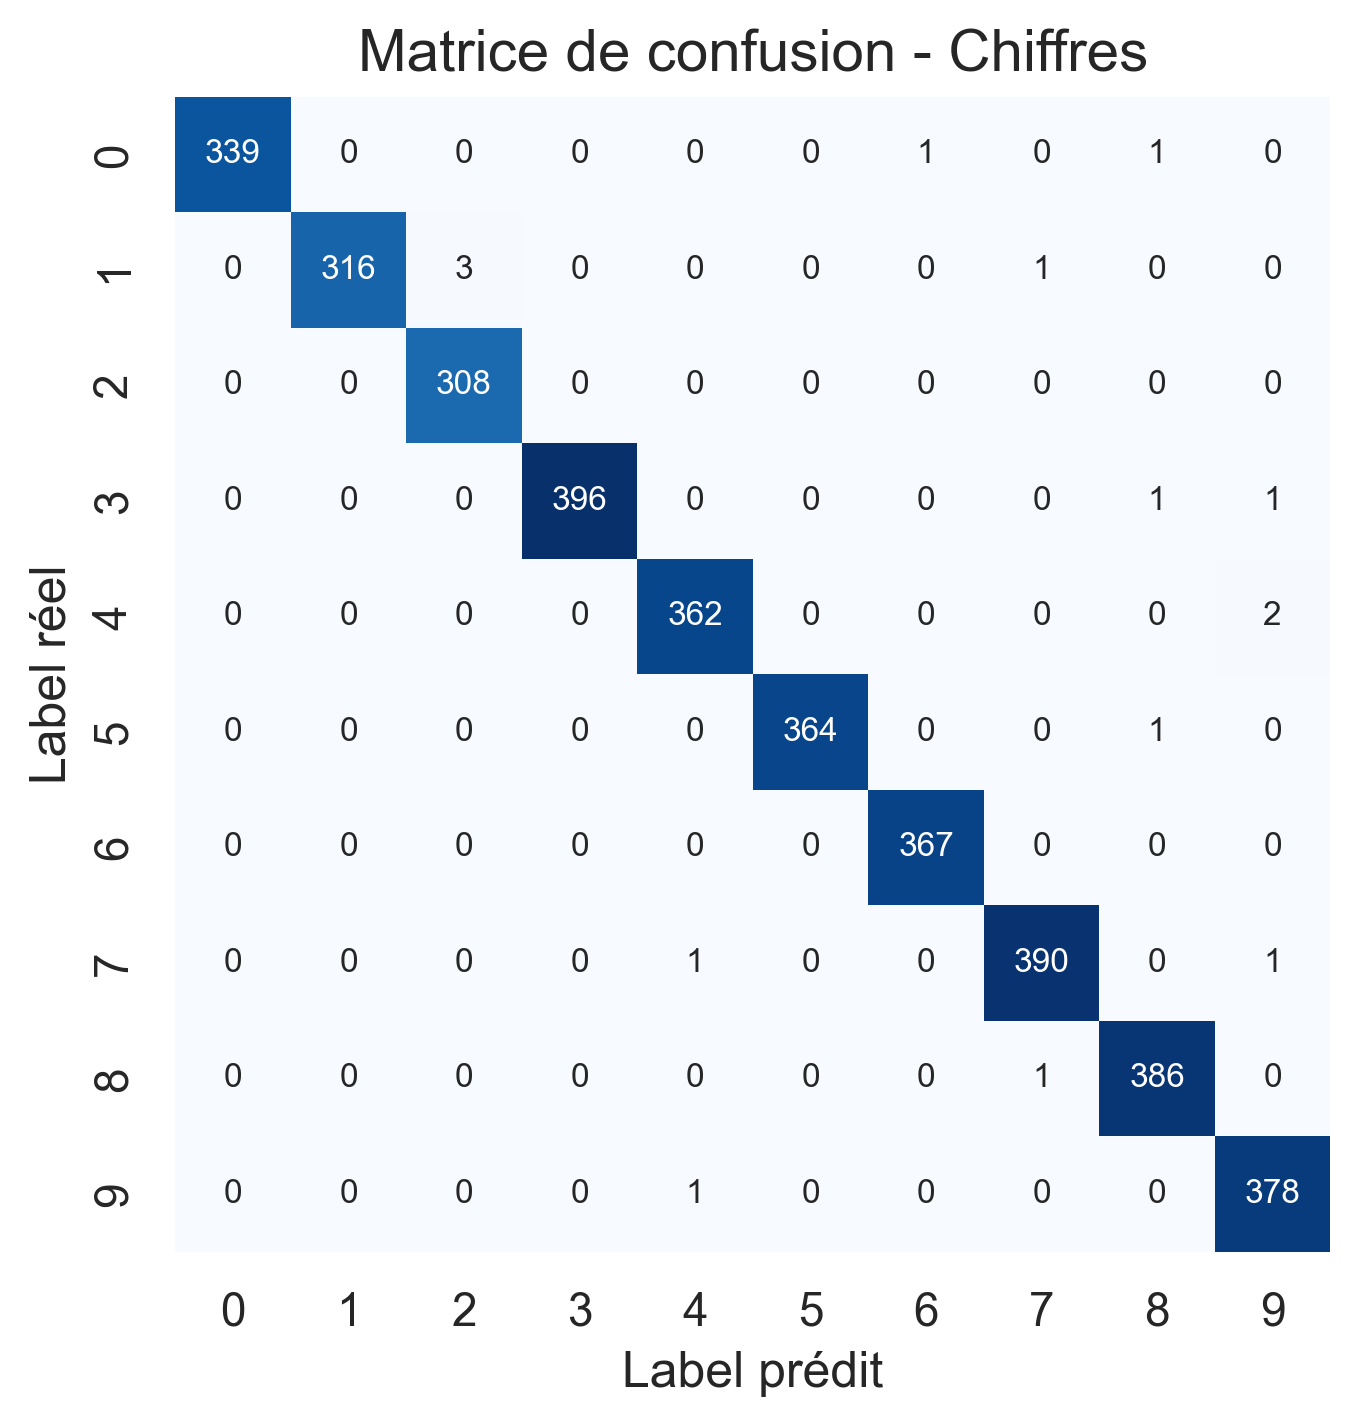
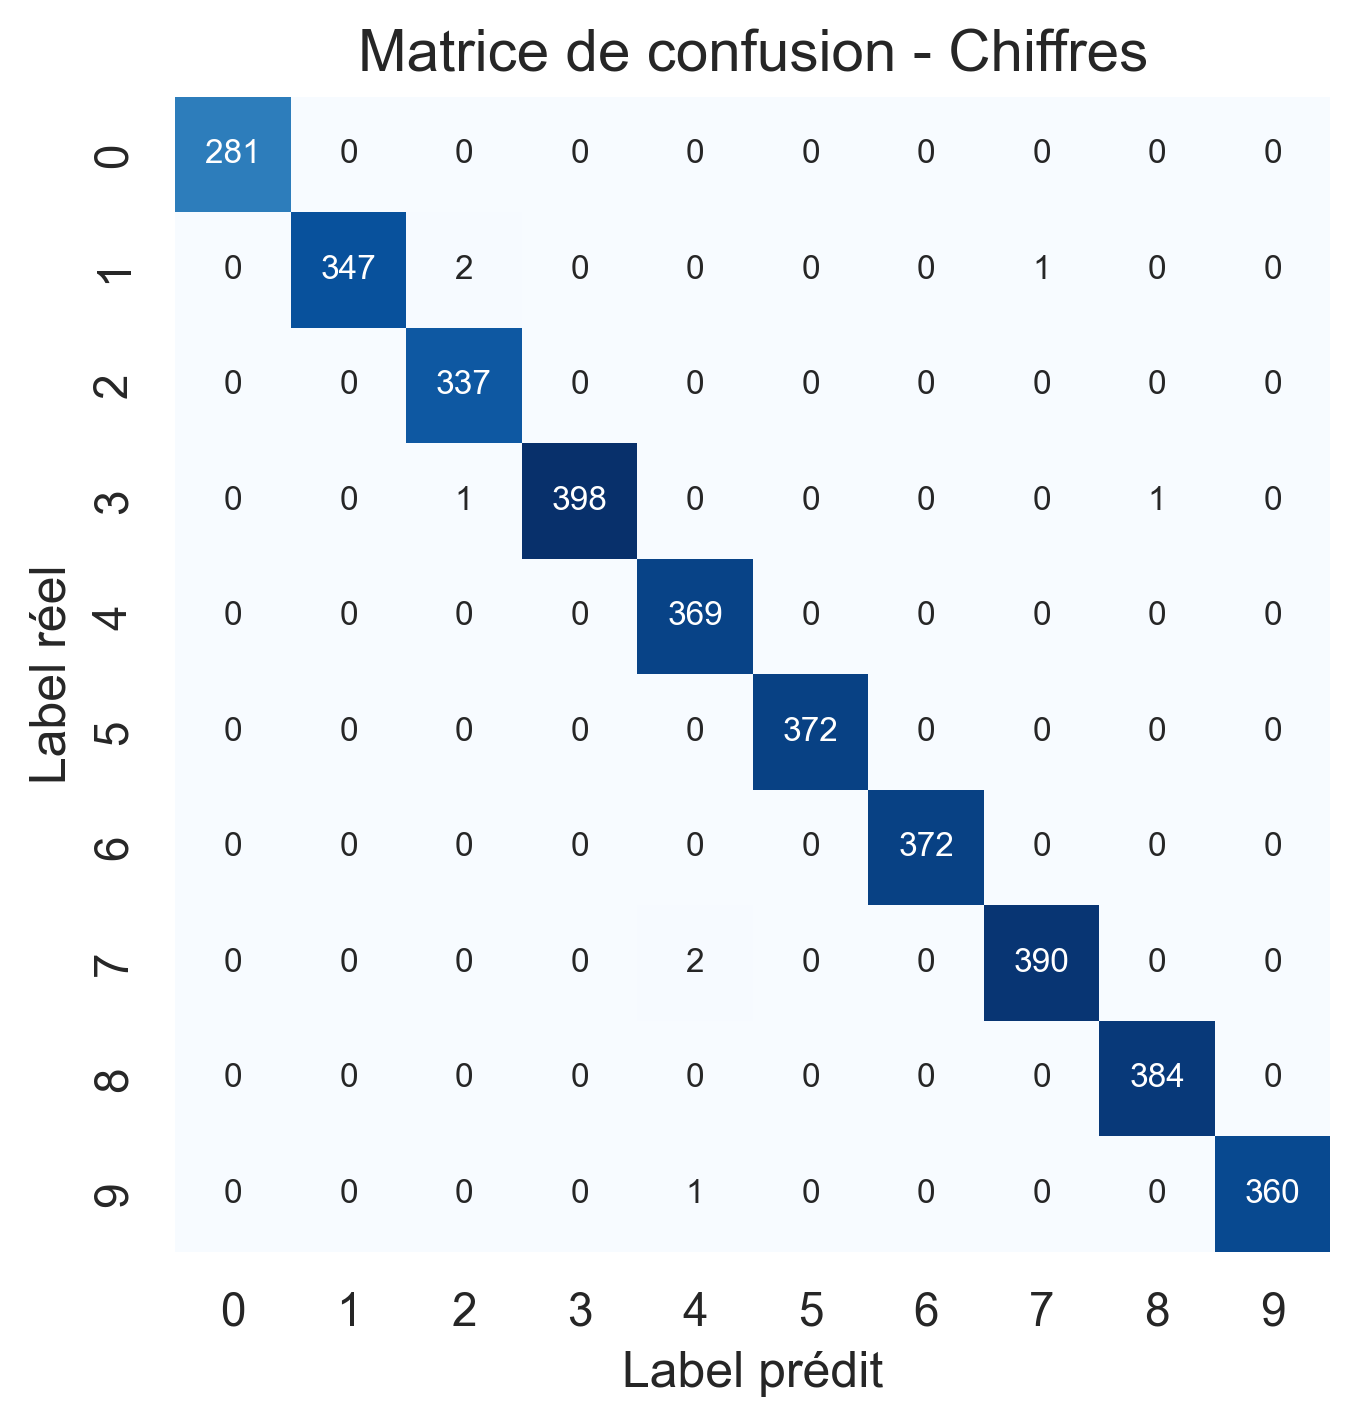
resolution probleme labels matrices

diff --git a/src/utils/matrix.py b/src/utils/matrix.py
@@ -2,7 +2,24 @@ import matplotlib.pyplot as plt
 from sklearn.metrics import confusion_matrix
 import seaborn as sns
 import numpy as np
+import os
+import sys
+import tensorflow as tf 
 
+
+current_dir = os.path.dirname(__file__)
+src_dir = os.path.abspath(os.path.join(current_dir, ".."))  # remonte à /src
+sys.path.append(src_dir)
+from dataloader.data_loader import load_data_emnist
+
+def load_emnist_labels(mapping_path):
+    """Charge les labels EMNIST Balanced depuis le fichier de mapping"""
+    labels = []
+    with open(mapping_path, 'r') as f:
+        for line in f:
+            _, unicode_val = line.strip().split()
+            labels.append(chr(int(unicode_val)))
+    return labels
 
 # matrice de confusion pour mnist (seulement les chiffres)
 def plot_confusion_matrix_mnist(model, x_test, y_test):
@@ -26,60 +43,76 @@ def plot_confusion_matrix_mnist(model, x_test, y_test):
 
 
 
+# Mapping EMNIST Balanced (index -> char)
+emnist_labels = [
+    '0', '1', '2', '3', '4', '5', '6', '7', '8', '9',
+    'A', 'B', 'C', 'D', 'E', 'F', 'G', 'H', 'I', 'J',
+    'K', 'L', 'M', 'N', 'O', 'P', 'Q', 'R', 'S', 'T',
+    'U', 'V', 'W', 'X', 'Y', 'Z',
+    'a', 'b', 'd', 'e', 'f', 'g', 'h', 'n', 'q', 'r', 't'
+]
 
-
-
-# matrices de confusion pour emnist (lettres, chiffres & complète)
-import numpy as np
-import matplotlib.pyplot as plt
-import seaborn as sns
-from sklearn.metrics import confusion_matrix
-
-def plot_confusion_matrices(model, x_test, y_test):
-    """Affiche et sauvegarde les matrices de confusion pour lettres et chiffres"""
+def plot_confusion_matrices(model, x_test, y_test, mapping_path="data/gzip/emnist-balanced-mapping.txt"):
+    """Affiche et sauvegarde les matrices de confusion pour EMNIST Balanced"""
     y_pred = np.argmax(model.predict(x_test), axis=1)
 
-    labels_digits = [str(i) for i in range(10)]  # Chiffres 0-9
-    labels_letters = [chr(i) for i in range(ord('A'), ord('Z') + 1)]  # Lettres A-Z
-    labels_full = labels_digits + labels_letters  # Chiffres et lettres
+    # Chargement des vrais labels EMNIST
+    labels_emnist = load_emnist_labels(mapping_path)
+    num_classes = len(labels_emnist)
 
-    cm_full = confusion_matrix(y_test, y_pred)
-    cm_digits = cm_full[:10, :10]  # Partie des chiffres
-    cm_letters = cm_full[10:, 10:]  # Partie des lettres
+    # Création de la matrice de confusion complète
+    cm_full = confusion_matrix(y_test, y_pred, labels=range(num_classes))
 
-    sns.set(style="white")  # Amélioration du style
+    # Indices des chiffres et des lettres dans le label set
+    digits_idx = [i for i, c in enumerate(labels_emnist) if c.isdigit()]
+    letters_idx = [i for i, c in enumerate(labels_emnist) if c.isalpha()]
 
-    # Matrice complète
-    plt.figure(figsize=(10, 8))
-    ax = sns.heatmap(cm_full, annot=False, cmap='coolwarm', xticklabels=labels_full, yticklabels=labels_full, square=True, cbar=True)
-    ax.set_xticks(np.arange(len(labels_full)) + 0.5)
-    ax.set_yticks(np.arange(len(labels_full)) + 0.5)
-    ax.set_xticklabels(labels_full, rotation=0, ha='center', fontsize=8)
-    ax.set_yticklabels(labels_full, rotation=0, va='center', fontsize=8)
+    sns.set(style="white")
+
+    # --- Matrice complète ---
+    plt.figure(figsize=(14, 12))
+    ax = sns.heatmap(cm_full, annot=False, cmap='coolwarm',
+                     xticklabels=labels_emnist, yticklabels=labels_emnist,
+                     square=True, cbar=True)
+    ax.set_xticklabels(labels_emnist, rotation=90, ha='center', fontsize=7)
+    ax.set_yticklabels(labels_emnist, rotation=0, va='center', fontsize=7)
     plt.xlabel("Label prédit", fontsize=12)
     plt.ylabel("Label réel", fontsize=12)
     plt.title("Matrice de confusion - Ensemble complet", fontsize=14)
     plt.savefig("models/emnist_matrix/confusion_matrix_full.png", bbox_inches='tight', dpi=300)
     plt.show()
 
-    # Matrice pour les chiffres
+    # --- Matrice chiffres ---
+    cm_digits = cm_full[np.ix_(digits_idx, digits_idx)]
+    labels_digits = [labels_emnist[i] for i in digits_idx]
+
     plt.figure(figsize=(6, 5))
-    ax = sns.heatmap(cm_digits, annot=True, fmt='d', cmap='Blues', xticklabels=labels_digits, yticklabels=labels_digits, annot_kws={"size": 8}, square=True, cbar=False)
+    ax = sns.heatmap(cm_digits, annot=True, fmt='d', cmap='Blues',
+                     xticklabels=labels_digits, yticklabels=labels_digits,
+                     annot_kws={"size": 8}, square=True, cbar=False)
     plt.xlabel("Label prédit", fontsize=12)
     plt.ylabel("Label réel", fontsize=12)
     plt.title("Matrice de confusion - Chiffres", fontsize=14)
     plt.savefig("models/emnist_matrix/confusion_matrix_digits.png", bbox_inches='tight', dpi=300)
     plt.show()
 
-    # Matrice pour les lettres
+    # --- Matrice lettres ---
+    cm_letters = cm_full[np.ix_(letters_idx, letters_idx)]
+    labels_letters = [labels_emnist[i] for i in letters_idx]
+
     plt.figure(figsize=(10, 8))
-    ax = sns.heatmap(cm_letters, annot=True, fmt='d', cmap='YlGnBu', xticklabels=labels_letters, yticklabels=labels_letters, annot_kws={"size": 6}, square=True, cbar=True)
-    ax.set_xticks(np.arange(len(labels_letters)) + 0.5)
-    ax.set_yticks(np.arange(len(labels_letters)) + 0.5)
-    ax.set_xticklabels(labels_letters, rotation=0, ha='center', fontsize=8)
-    ax.set_yticklabels(labels_letters, rotation=0, va='center', fontsize=8)
+    ax = sns.heatmap(cm_letters, annot=True, fmt='d', cmap='YlGnBu',
+                     xticklabels=labels_letters, yticklabels=labels_letters,
+                     annot_kws={"size": 6}, square=True, cbar=True)
+    ax.set_xticklabels(labels_letters, rotation=90, ha='center', fontsize=7)
+    ax.set_yticklabels(labels_letters, rotation=0, va='center', fontsize=7)
     plt.xlabel("Label prédit", fontsize=12)
     plt.ylabel("Label réel", fontsize=12)
     plt.title("Matrice de confusion - Lettres", fontsize=14)
     plt.savefig("models/emnist_matrix/confusion_matrix_letters.png", bbox_inches='tight', dpi=300)
     plt.show()
+
+#x_train, x_test, y_train, y_test = load_data_emnist()
+#model = tf.keras.models.load_model("models/emnist_model_20250413_210913/model.h5")
+
+#plot_confusion_matrices(model, x_test, y_test)

diff --git a/src/evaluation/evaluate2.py b/src/evaluation/evaluate2.py
@@ -2,20 +2,26 @@ import numpy as np
 import tensorflow as tf
 import matplotlib.pyplot as plt
 import random
-
 from dataloader.data_loader import load_data_emnist
+
+
+def load_emnist_labels(mapping_path):
+    """Charge les labels EMNIST Balanced depuis le fichier de mapping"""
+    labels = []
+    with open(mapping_path, 'r') as f:
+        for line in f:
+            _, unicode_val = line.strip().split()
+            labels.append(chr(int(unicode_val)))
+    return labels
 
 def evaluate2_model():
     """Évalue le modèle et affiche les résultats"""
     # Charger les données
     x_train, x_test, y_train, y_test = load_data_emnist()
 
-    # Mapping des labels EMNIST Balanced
-    labels_mapping = [
-        '0', '1', '2', '3', '4', '5', '6', '7', '8', '9',  # Chiffres
-        'A', 'B', 'C', 'D', 'E', 'F', 'G', 'H', 'I', 'J', 'K', 'L', 'M', 'N', 'O', 'P', 'Q', 'R', 'S', 'T', 'U', 'V', 'W', 'X', 'Y', 'Z',  # Lettres majuscules
-        'a', 'b', 'c', 'd', 'e', 'f', 'g', 'h', 'i', 'j', 'k', 'l', 'm', 'n', 'o', 'p', 'q', 'r', 's', 't', 'u', 'v'  # Lettres minuscules
-    ]
+    # Charger le mapping des labels EMNIST
+    mapping_path = "data/gzip/emnist-balanced-mapping.txt"
+    labels_mapping = load_emnist_labels(mapping_path)
 
     # Vérification des dimensions des données
     print(f"x_train: {x_train.shape}, y_train: {y_train.shape}")
@@ -30,9 +36,7 @@ def evaluate2_model():
         plt.show()
     
     # Charger le modèle sauvegardé
-    "meilleur modèle"
     model = tf.keras.models.load_model("models/emnist_model_20250413_210913/model.h5")
-    #model = tf.keras.models.load_model("models/emnist_model_20250413_213608/model.h5") 
 
     # Évaluation du modèle
     loss, accuracy = model.evaluate(x_test, y_test, verbose=1)
@@ -55,7 +59,6 @@ def evaluate2_model():
         index = random.randint(0, len(x_test) - 1)
         plt.imshow(x_test[index].squeeze(), cmap="gray")
         # Utiliser labels_mapping pour afficher les vrais labels et les prédictions sous forme de caractères
-        # On ajuste le mappage pour que les labels minuscules n'aient pas de décalage
         plt.title(f"Prédiction: {labels_mapping[y_pred[index]]} - Vrai label: {labels_mapping[y_test[index]]}")
         plt.axis("off")
         plt.show()
@@ -85,6 +88,6 @@ def evaluate2_model():
     plt.legend()
 
     plt.show()
-    #model = tf.keras.models.load_model("models/emnist_model.h5")
+
 if __name__ == "__main__":
     evaluate2_model()
